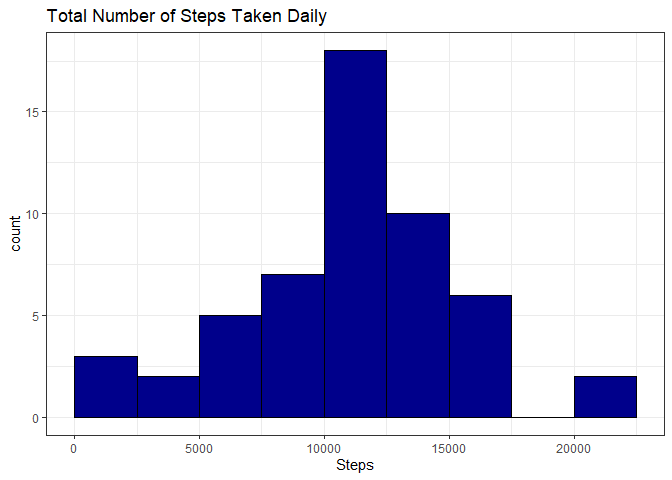
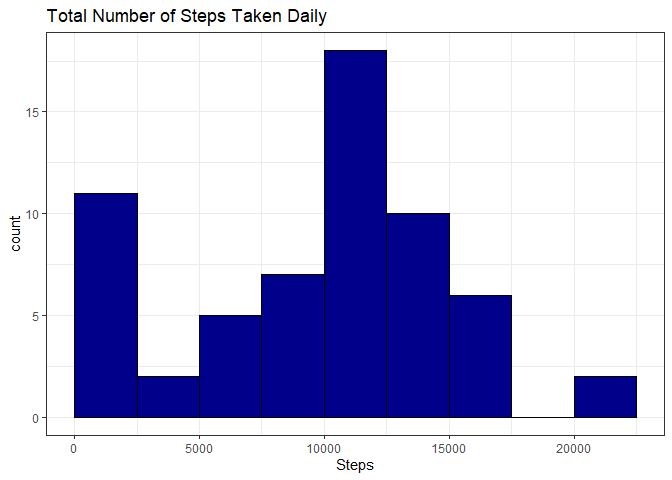
corrected a mistake

Changed region(s): [[0.0938, 0.375, 0.2188, 0.75]]

diff --git a/PA1_template.html b/PA1_template.html
@@ -378,7 +378,7 @@ activity$date &lt;- as.Date(activity$date, &quot;%Y-%m-%d&quot;)</code></pre>
 dailySum &lt;- activity %&gt;%
         group_by(date) %&gt;%
         summarise(date = unique(date),
-                  steps = sum(steps))
+                  steps = sum(steps, na.rm = TRUE))
 library(ggplot2)
 g1 &lt;- ggplot(dailySum, aes(x = steps)) + 
         geom_histogram(color = &quot;black&quot;, fill = &quot;darkblue&quot;, 
@@ -387,11 +387,11 @@ g1 &lt;- ggplot(dailySum, aes(x = steps)) +
              x = &quot;Steps&quot;) + 
         theme_bw()
 print(g1)</code></pre>
[1 lines of base64/hex data omitted]
-<pre class="r"><code>mean(dailySum$steps, na.rm = TRUE)</code></pre>
-<pre><code>## [1] 10766.19</code></pre>
-<pre class="r"><code>median(dailySum$steps, na.rm = TRUE)</code></pre>
-<pre><code>## [1] 10765</code></pre>
[1 lines of base64/hex data omitted]
+<pre class="r"><code>mean(dailySum$steps)</code></pre>
+<pre><code>## [1] 9354.23</code></pre>
+<pre class="r"><code>median(dailySum$steps)</code></pre>
+<pre><code>## [1] 10395</code></pre>
 </div>
 <div id="what-is-the-average-daily-activity-pattern" class="section level2">
 <h2>What is the average daily activity pattern?</h2>

diff --git a/PA1_template.md b/PA1_template.md
@@ -21,7 +21,7 @@ library(dplyr)
 dailySum <- activity %>%
         group_by(date) %>%
         summarise(date = unique(date),
-                  steps = sum(steps))
+                  steps = sum(steps, na.rm = TRUE))
 library(ggplot2)
 g1 <- ggplot(dailySum, aes(x = steps)) + 
         geom_histogram(color = "black", fill = "darkblue", 
@@ -35,19 +35,19 @@ print(g1)
 ![](PA1_template_files/figure-html/unnamed-chunk-2-1.png)<!-- -->
 
 ```r
-mean(dailySum$steps, na.rm = TRUE)
+mean(dailySum$steps)
 ```
 
 ```
-## [1] 10766.19
+## [1] 9354.23
 ```
 
 ```r
-median(dailySum$steps, na.rm = TRUE)
+median(dailySum$steps)
 ```
 
 ```
-## [1] 10765
+## [1] 10395
 ```
 
 ## What is the average daily activity pattern?
